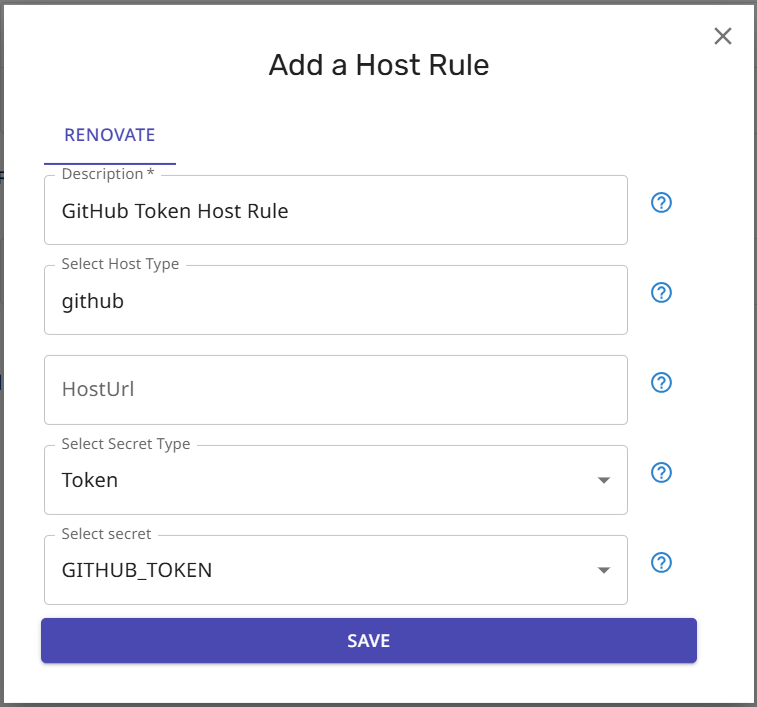
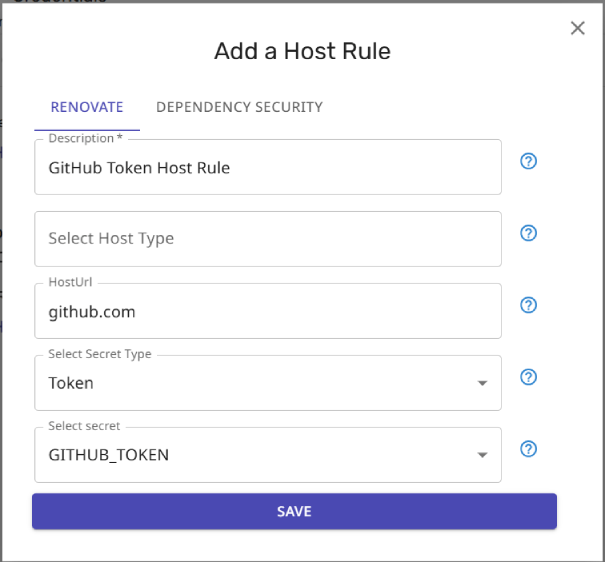
Updated images for Host Rules

diff --git a/docs/usage/mend-hosted/app-secrets.md b/docs/usage/mend-hosted/app-secrets.md
@@ -53,8 +53,7 @@ Alternatively, you can use the Host Rules UI (see below).
 
 3. Fill out the details for your host rule.
 
-   Note: You can select a pre-defined host rule type in the `Select Host Type` field, or provide a specific value in the `HostURL` field.
-   You do not need to provide both values.
+   As an example, if you are a Bitbucket or Azure DevOps user, and you want to specify the GITHUB_TOKEN to fetch release notes, you could create a host rule like this:
 
    ![Host Rules dialog box](../assets/images/app-settings/host-rules.png)
 
